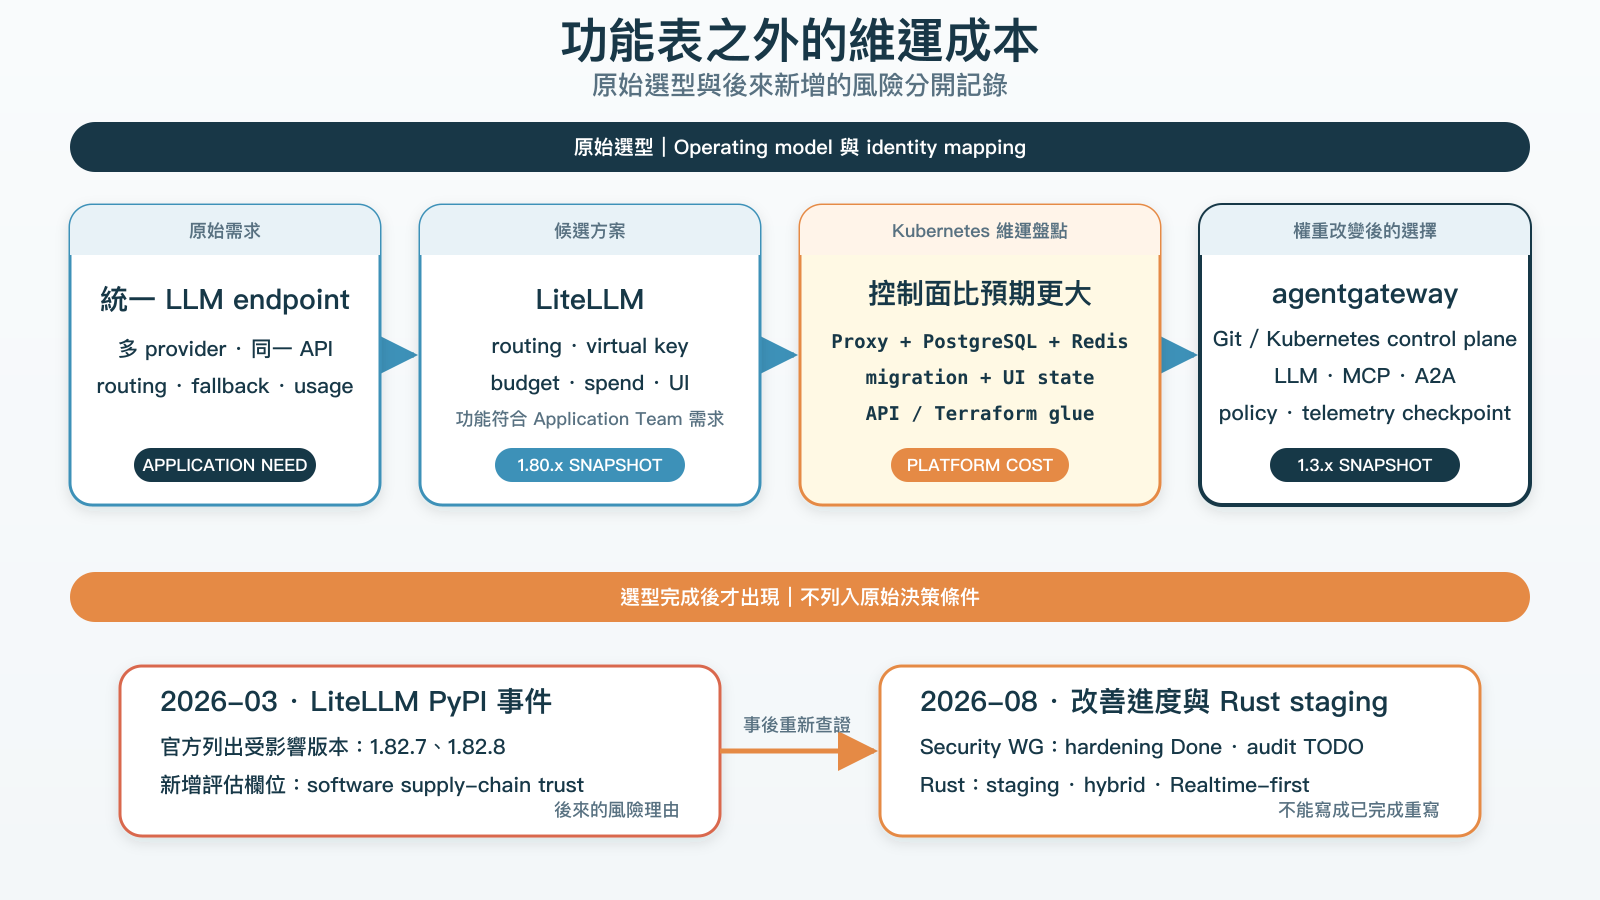
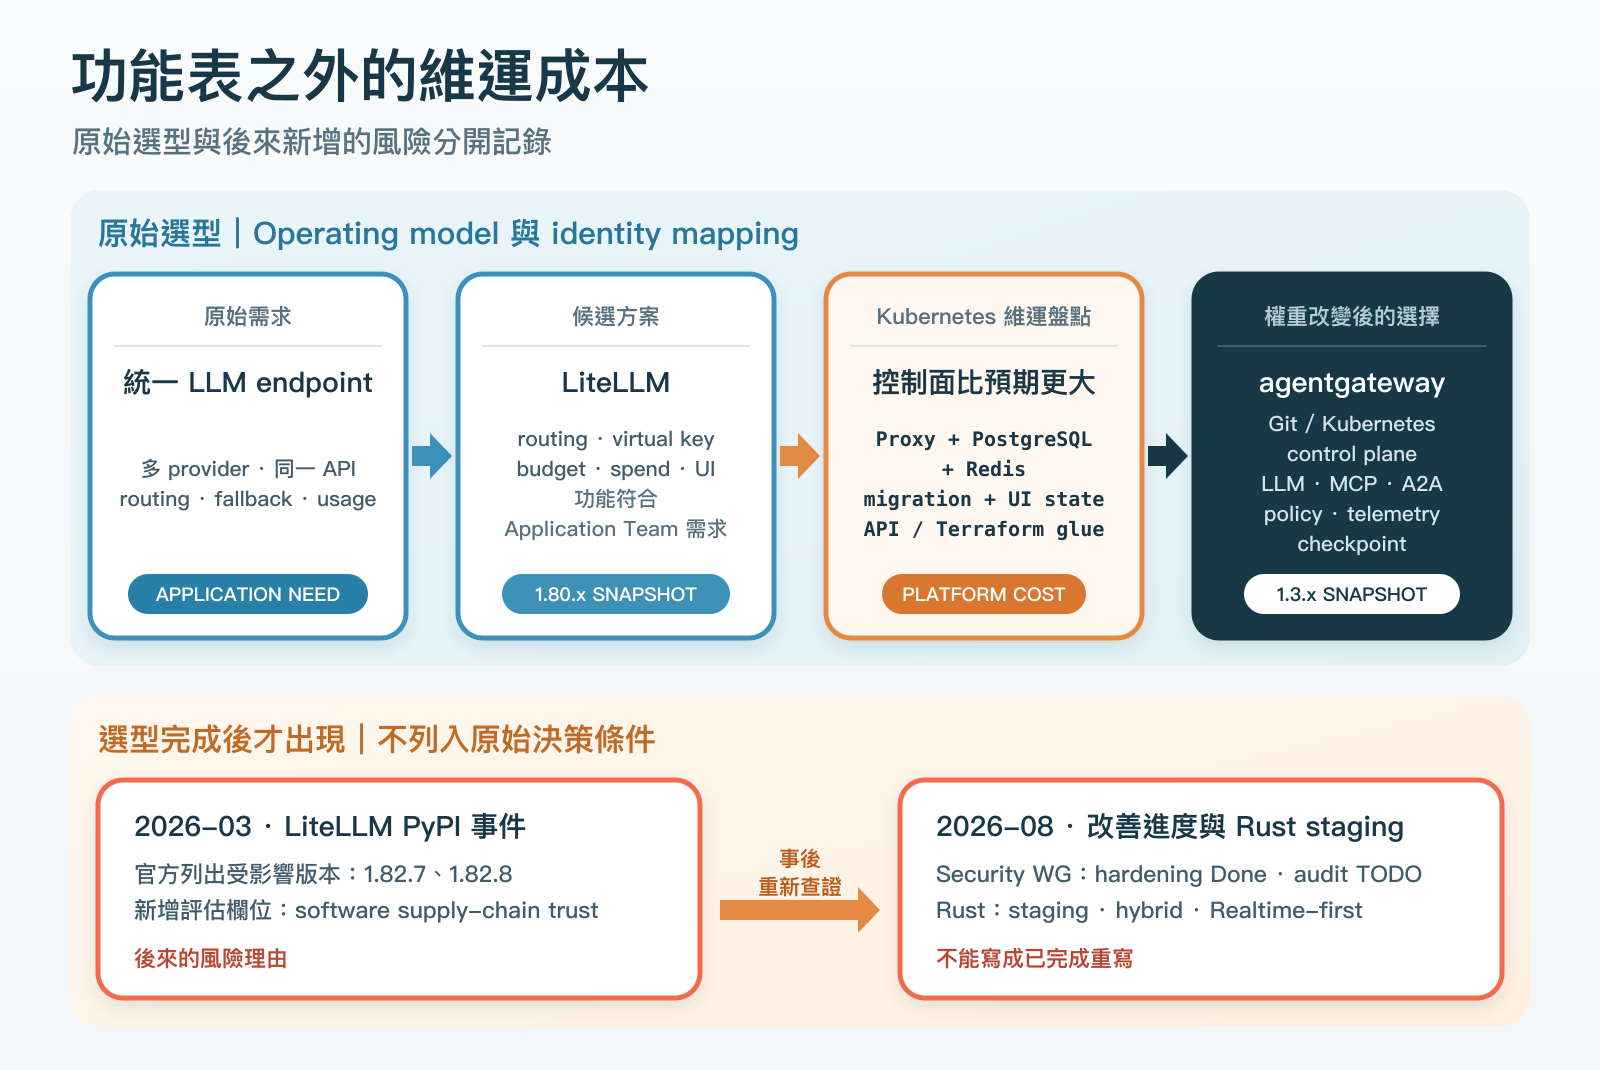
docs: release redesigned Day 11-20 diagrams

diff --git a/articles/day-18/article.md b/articles/day-18/article.md
@@ -18,7 +18,7 @@ kagent 的 [BYO Agent 文件](https://kagent.dev/docs/kagent/examples/a2a-byo/) 
 
 Lab 在 Disposable Kind Cluster 放入兩個 Agent。`day18-parent` 是 Declarative Agent，負責把資源變更交給同 Namespace 的 `day18-byo`。BYO Image 以 Google ADK 實作 `change_demo_resource` Tool，只回傳 Action Receipt，不會修改 Kubernetes 或其他外部服務。
 
-![kagent control plane 依 BYO Agent CR 建立 Deployment、Service、連接 ServiceAccount，並維護註冊與 Ready status。Agent Card 則由 BYO Runtime 提供。實際路徑由 A2A probe 呼叫 declarative parent，parent 以 Agent-as-Tool 經 agentgateway 到 Google ADK BYO Agent，再由 Runtime 的 Tool callback 處理 input-required 與 approve 或 reject。圖下方分開列出平台接手的 lifecycle、discovery、入口，以及 BYO 作者仍負責的 workflow、HITL callback、memory 與 Tool policy。](https://raw.githubusercontent.com/MikeHsu0618/2026-ithelp-agent-governance-public/day-18-r3/assets/diagrams/day-18/byo-platform-boundary.png)
+![kagent control plane 依 BYO Agent CR 建立 Deployment、Service、連接 ServiceAccount，並維護註冊與 Ready status。Agent Card 則由 BYO Runtime 提供。實際路徑由 A2A probe 呼叫 declarative parent，parent 以 Agent-as-Tool 經 agentgateway 到 Google ADK BYO Agent，再由 Runtime 的 Tool callback 處理 input-required 與 approve 或 reject。圖下方分開列出平台接手的 lifecycle、discovery、入口，以及 BYO 作者仍負責的 workflow、HITL callback、memory 與 Tool policy。](https://raw.githubusercontent.com/MikeHsu0618/2026-ithelp-agent-governance-public/day-18-r4/assets/diagrams/day-18/byo-platform-boundary.png)
 
 kagent 依 Agent CR 建立 Workload、Service 並維護 Ready Status，Agent Card 的內容與實際回應則由 BYO Runtime 提供。執行時，Parent 透過 agentgateway 呼叫 BYO Agent，Tool 的 Approval Callback 也留在 BYO Runtime 裡。
 
@@ -34,7 +34,7 @@ x-kagent-host: day18-byo.day18-lab
 
 Gateway 當時沒有對應 Route，Parent 讀 `/.well-known/agent-card.json` 得到 `404`。這與 Day 17 的 Public A2A Prefix 是不同問題。BYO Agent 已有自己的 Service，但 Controller 將內部 Agent-as-Tool 收進共同 Proxy 後，Gateway 必須知道這個 `x-kagent-host` 應送到哪個 A2A Backend。
 
-Lab 最後加入 Header Exact Match，將 `day18-byo.day18-lab` 送到 BYO A2A Backend。Route 生效後，Agent Card GET、Task 的 `input-required` 與最後的 `completed` 都落在相同 Backend。完整 [Gateway Route](https://github.com/MikeHsu0618/2026-ithelp-agent-governance-public/blob/day-18-r3/labs/03-gateway-runtime/configs/day-18/kagent-resources.yaml) 留在 Repo，正文不再複製整段 YAML。
+Lab 最後加入 Header Exact Match，將 `day18-byo.day18-lab` 送到 BYO A2A Backend。Route 生效後，Agent Card GET、Task 的 `input-required` 與最後的 `completed` 都落在相同 Backend。完整 [Gateway Route](https://github.com/MikeHsu0618/2026-ithelp-agent-governance-public/blob/day-18-r4/labs/03-gateway-runtime/configs/day-18/kagent-resources.yaml) 留在 Repo，正文不再複製整段 YAML。
 
 agentgateway Access Log 也留下 A2A Method、Response Outcome、Task State 與 Context。它能成為 A2A Traffic Checkpoint，卻看不到 Runtime 為何要求批准，也不知道 Approver 是否有權修改 `demo/cache`。Traffic Telemetry 與 Business Authorization 仍是兩份責任。
 
@@ -42,7 +42,7 @@ agentgateway Access Log 也留下 A2A Method、Response Outcome、Task State 與
 
 這次 HITL 不是在 Prompt 裡多問一句「確定嗎」。Google ADK Tool Callback 呼叫 `request_confirmation()`，BYO Task 先回 `input-required`。Parent 的 Agent-as-Tool 收到狀態後，將 Approval 帶回上層 Task。使用者選擇 Approve 或 Reject，兩層 Task 才沿著相同 Task／Context 繼續執行。
 
-![使用者先向 declarative parent 送出請求，parent 經 agentgateway 呼叫 BYO Agent。BYO Runtime 在 Tool callback 呼叫 request_confirmation，child 與 parent task 依序停在 input-required。使用者沿用同一組 task ID 與 context ID 回覆 approve 或 reject 後，請求再經 parent 與 Gateway 回到 BYO Runtime。Approve 會執行 Tool 並回傳 ACTION_EXECUTED，reject 不執行 Tool 並回傳 ACTION_SKIPPED，兩條路徑最後都進入 completed。圖中另標示 kagent-adk 負責傳遞 pause 與 resume，BYO Runtime 負責 approval callback，而 approver authorization 不在本次測試範圍。](https://raw.githubusercontent.com/MikeHsu0618/2026-ithelp-agent-governance-public/day-18-r3/assets/diagrams/day-18/hitl-pause-resume.png)
+![使用者先向 declarative parent 送出請求，parent 經 agentgateway 呼叫 BYO Agent。BYO Runtime 在 Tool callback 呼叫 request_confirmation，child 與 parent task 依序停在 input-required。使用者沿用同一組 task ID 與 context ID 回覆 approve 或 reject 後，請求再經 parent 與 Gateway 回到 BYO Runtime。Approve 會執行 Tool 並回傳 ACTION_EXECUTED，reject 不執行 Tool 並回傳 ACTION_SKIPPED，兩條路徑最後都進入 completed。圖中另標示 kagent-adk 負責傳遞 pause 與 resume，BYO Runtime 負責 approval callback，而 approver authorization 不在本次測試範圍。](https://raw.githubusercontent.com/MikeHsu0618/2026-ithelp-agent-governance-public/day-18-r4/assets/diagrams/day-18/hitl-pause-resume.png)
 
 kagent `0.10.1` 的 [Release Notes](https://github.com/kagent-dev/kagent/releases/tag/v0.10.1) 包含 Python Agent HITL Resume 與 A2A User Identity Propagation 的修正，因此 Lab 鎖定這一版。從 [`_remote_a2a_tool.py`](https://github.com/kagent-dev/kagent/blob/v0.10.1/python/packages/kagent-adk/src/kagent/adk/_remote_a2a_tool.py) 也能對回 Child 回傳 `input_required` 後，Parent 建立 Confirmation，再沿 Task 與 Context 續跑的過程。
 
@@ -52,17 +52,17 @@ kagent `0.10.1` 的 [Release Notes](https://github.com/kagent-dev/kagent/release
 
 Approve Receipt 裡的 `actor=sre-oncaller` 一路經過 Parent、agentgateway 與 BYO Child。這證明 Actor 在傳遞時沒有弄丟，但公開 Lab 的值來自合成 Header。正式入口得先驗 Credential，批准者是否有權核准 `demo/cache` 也仍需另外判斷。
 
-[Lab 03 的 Day 18 區段](https://github.com/MikeHsu0618/2026-ithelp-agent-governance-public/blob/day-18-r3/labs/03-gateway-runtime/README.md) 保留同一組 Parent／BYO Agent 的完整設定與重跑方式。終端結果裡，Approve 執行 Tool，Reject 只回 `ACTION_SKIPPED decision=rejected`。兩條 Task 都會 Completed，不能把「流程結束」直接讀成「動作已做」。
+[Lab 03 的 Day 18 區段](https://github.com/MikeHsu0618/2026-ithelp-agent-governance-public/blob/day-18-r4/labs/03-gateway-runtime/README.md) 保留同一組 Parent／BYO Agent 的完整設定與重跑方式。終端結果裡，Approve 執行 Tool，Reject 只回 `ACTION_SKIPPED decision=rejected`。兩條 Task 都會 Completed，不能把「流程結束」直接讀成「動作已做」。
 
-![Day 18 Lab terminal card。BYO Agent Card、declarative parent 呼叫 BYO child、HITL approve、HITL reject 與 actor propagation 五項全部通過，下方保留 approve 與 reject 的實際 receipt。](https://raw.githubusercontent.com/MikeHsu0618/2026-ithelp-agent-governance-public/day-18-r3/assets/screenshots/day-18/02-byo-platform-results.png)
+![Day 18 Lab terminal card。BYO Agent Card、declarative parent 呼叫 BYO child、HITL approve、HITL reject 與 actor propagation 五項全部通過，下方保留 approve 與 reject 的實際 receipt。](https://raw.githubusercontent.com/MikeHsu0618/2026-ithelp-agent-governance-public/day-18-r4/assets/screenshots/day-18/02-byo-platform-results.png)
 
 ## 平台方便的是使用者，Runtime 仍由作者維護
 
 UI 同時列出 BYO Agent 與 Declarative Parent。對使用者來說，這已省掉手動尋找 URL、閱讀 Agent Card 與自行接 Client 的工作。kagent 也替作者建立 Deployment、Service 和基本的 Workload Lifecycle。agentgateway 則接住 Parent 到 Child 的 A2A Route 與 Traffic Log。
 
-回到 BYO 作者這一側，程式碼、Dependency、Memory、Tool Policy、Filesystem 與 Framework Upgrade 一項都沒有消失。這次 Approve／Reject 能順利續跑，是因為 BYO Runtime 實作了 Callback，並與 `kagent-adk` 的 Pause／Resume 流程相容。換成別的 A2A Runtime，還得自己對齊這段互動。完整的逐項差異放在 [BYO Agent 平台能力驗收表](https://github.com/MikeHsu0618/2026-ithelp-agent-governance-public/blob/day-18-r3/articles/day-18/platform-capability-matrix.md)，需要選型時再按實際 Runtime 核對。
+回到 BYO 作者這一側，程式碼、Dependency、Memory、Tool Policy、Filesystem 與 Framework Upgrade 一項都沒有消失。這次 Approve／Reject 能順利續跑，是因為 BYO Runtime 實作了 Callback，並與 `kagent-adk` 的 Pause／Resume 流程相容。換成別的 A2A Runtime，還得自己對齊這段互動。完整的逐項差異放在 [BYO Agent 平台能力驗收表](https://github.com/MikeHsu0618/2026-ithelp-agent-governance-public/blob/day-18-r4/articles/day-18/platform-capability-matrix.md)，需要選型時再按實際 Runtime 核對。
 
-![kagent UI 的 Agents 頁面。day18-lab namespace 內同時顯示 BYO Google ADK Agent 與 declarative parent，BYO 卡片標出實際部署的 image。畫面也保留前一天 Lab 的 day16 Agent。](https://raw.githubusercontent.com/MikeHsu0618/2026-ithelp-agent-governance-public/day-18-r3/assets/screenshots/day-18/01-kagent-agents.png)
+![kagent UI 的 Agents 頁面。day18-lab namespace 內同時顯示 BYO Google ADK Agent 與 declarative parent，BYO 卡片標出實際部署的 image。畫面也保留前一天 Lab 的 day16 Agent。](https://raw.githubusercontent.com/MikeHsu0618/2026-ithelp-agent-governance-public/day-18-r4/assets/screenshots/day-18/01-kagent-agents.png)
 
 ## BYO 解決接入，不會消除自建成本
 
